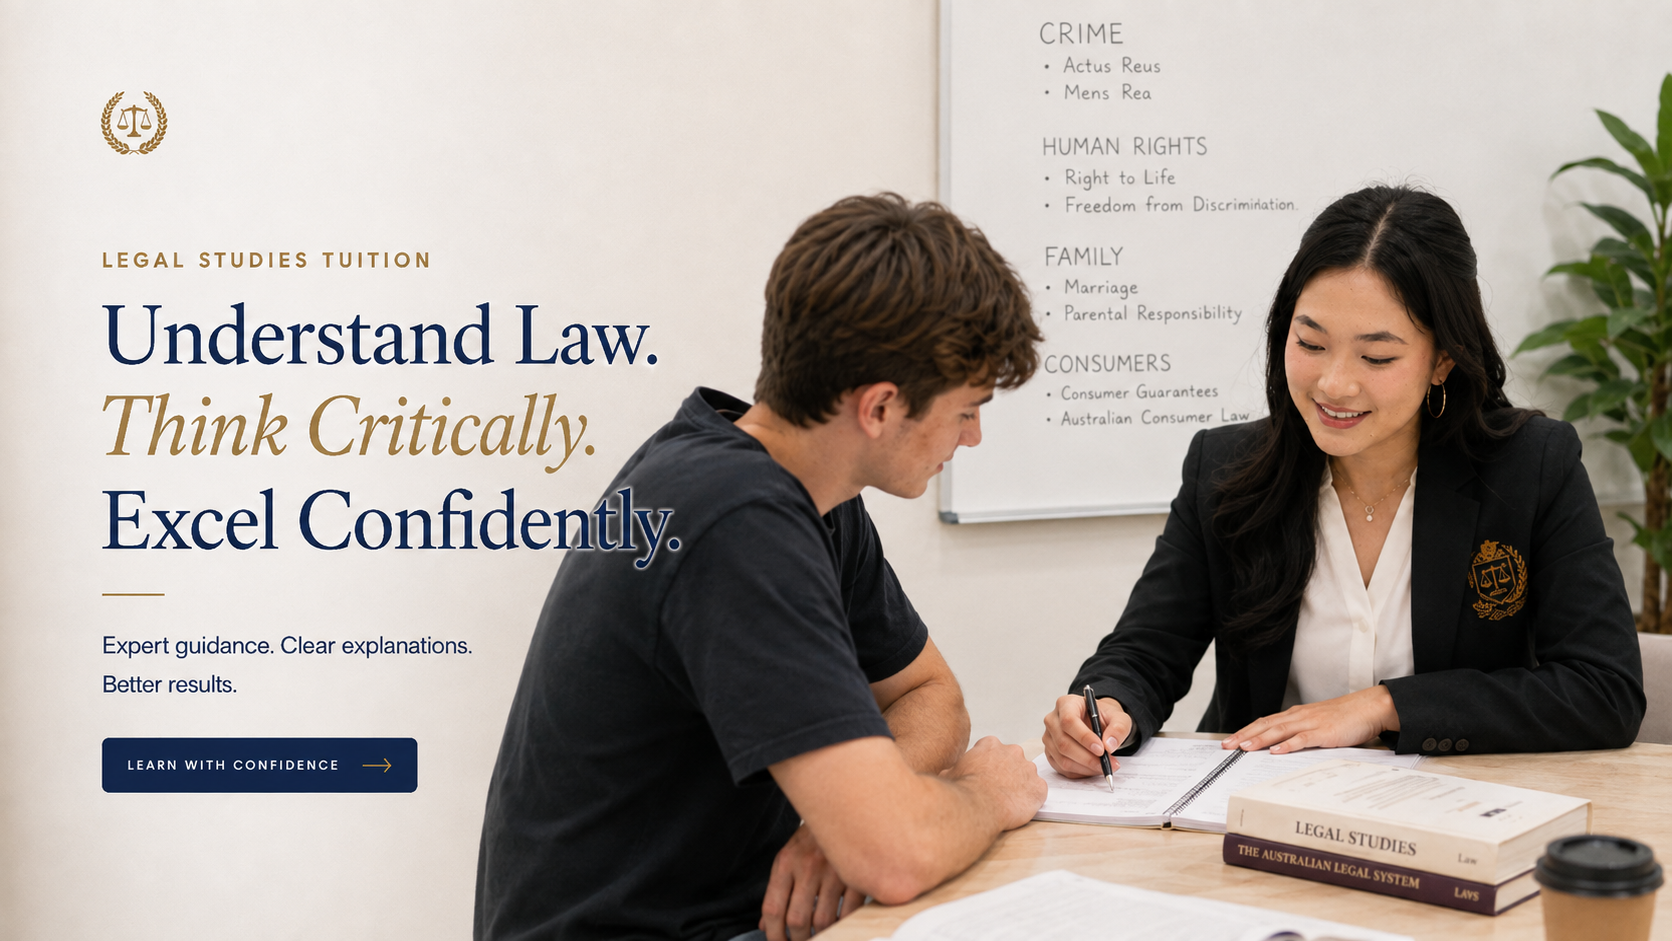
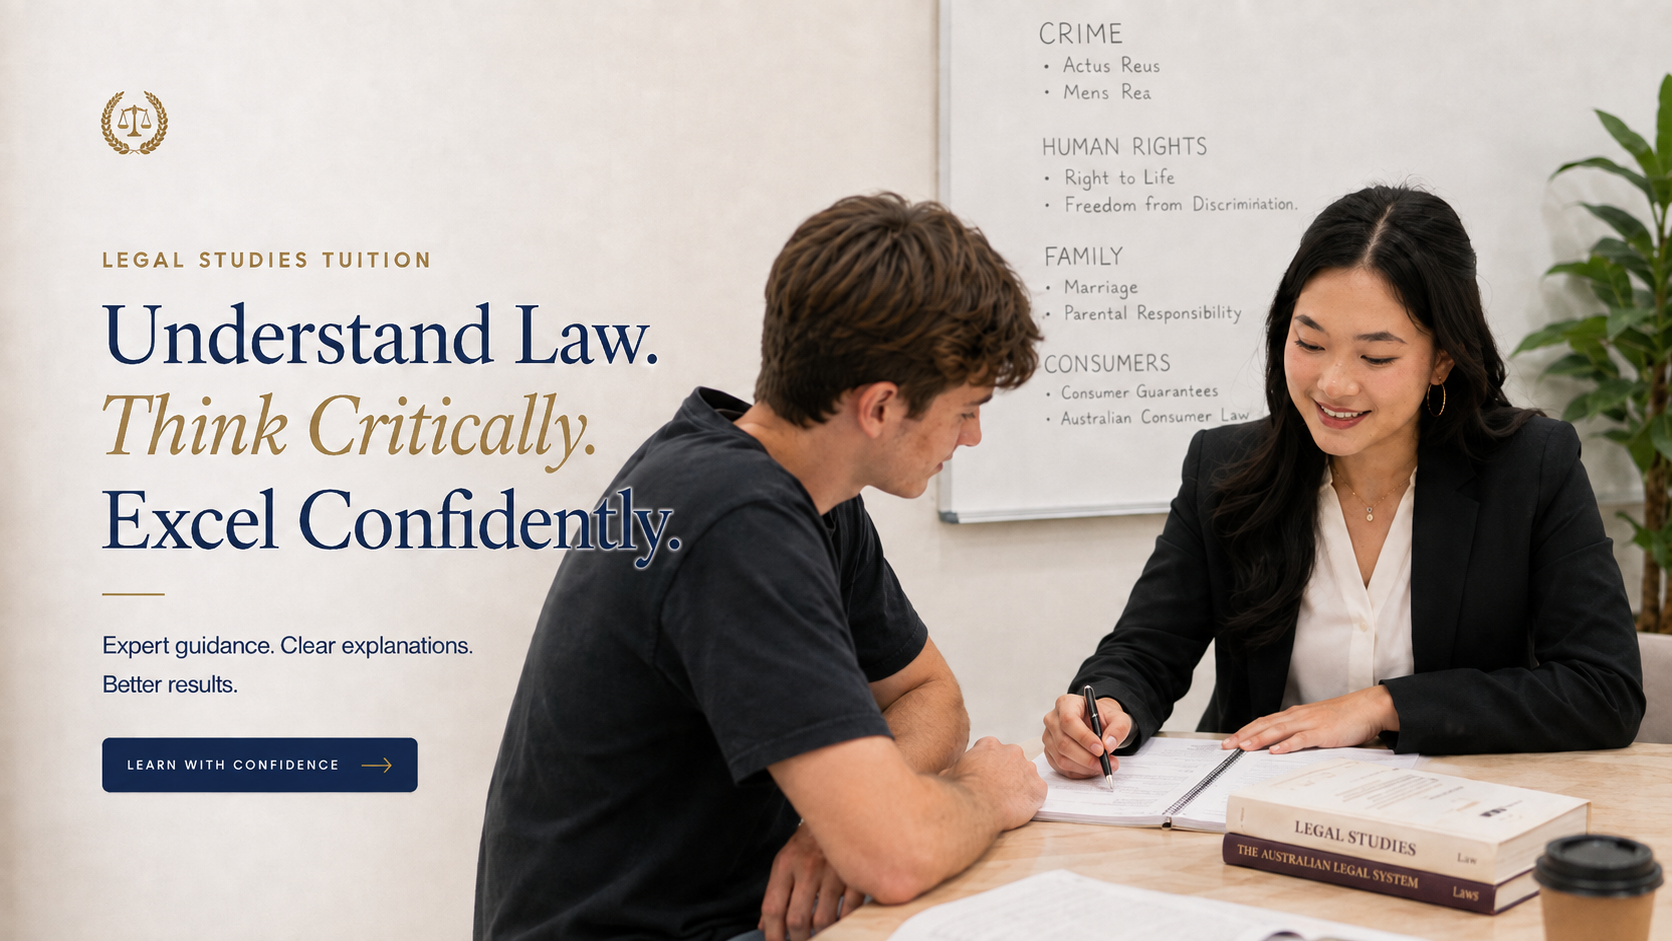
Update Legal Studies hero photo

diff --git a/src/pages/subjects/LegalStudies.tsx b/src/pages/subjects/LegalStudies.tsx
@@ -96,7 +96,7 @@ const LegalStudies = () => {
         backgroundImageSrc="/images/subjects/legal-studies/hero-background.png"
         backgroundImageAlt="DA Tuition Legal Studies classroom"
         backgroundPosition="right center"
-        backgroundScale={1.7}
+        backgroundScale={1.48}
       />
 
       {/* Learning Formats Callout */}
